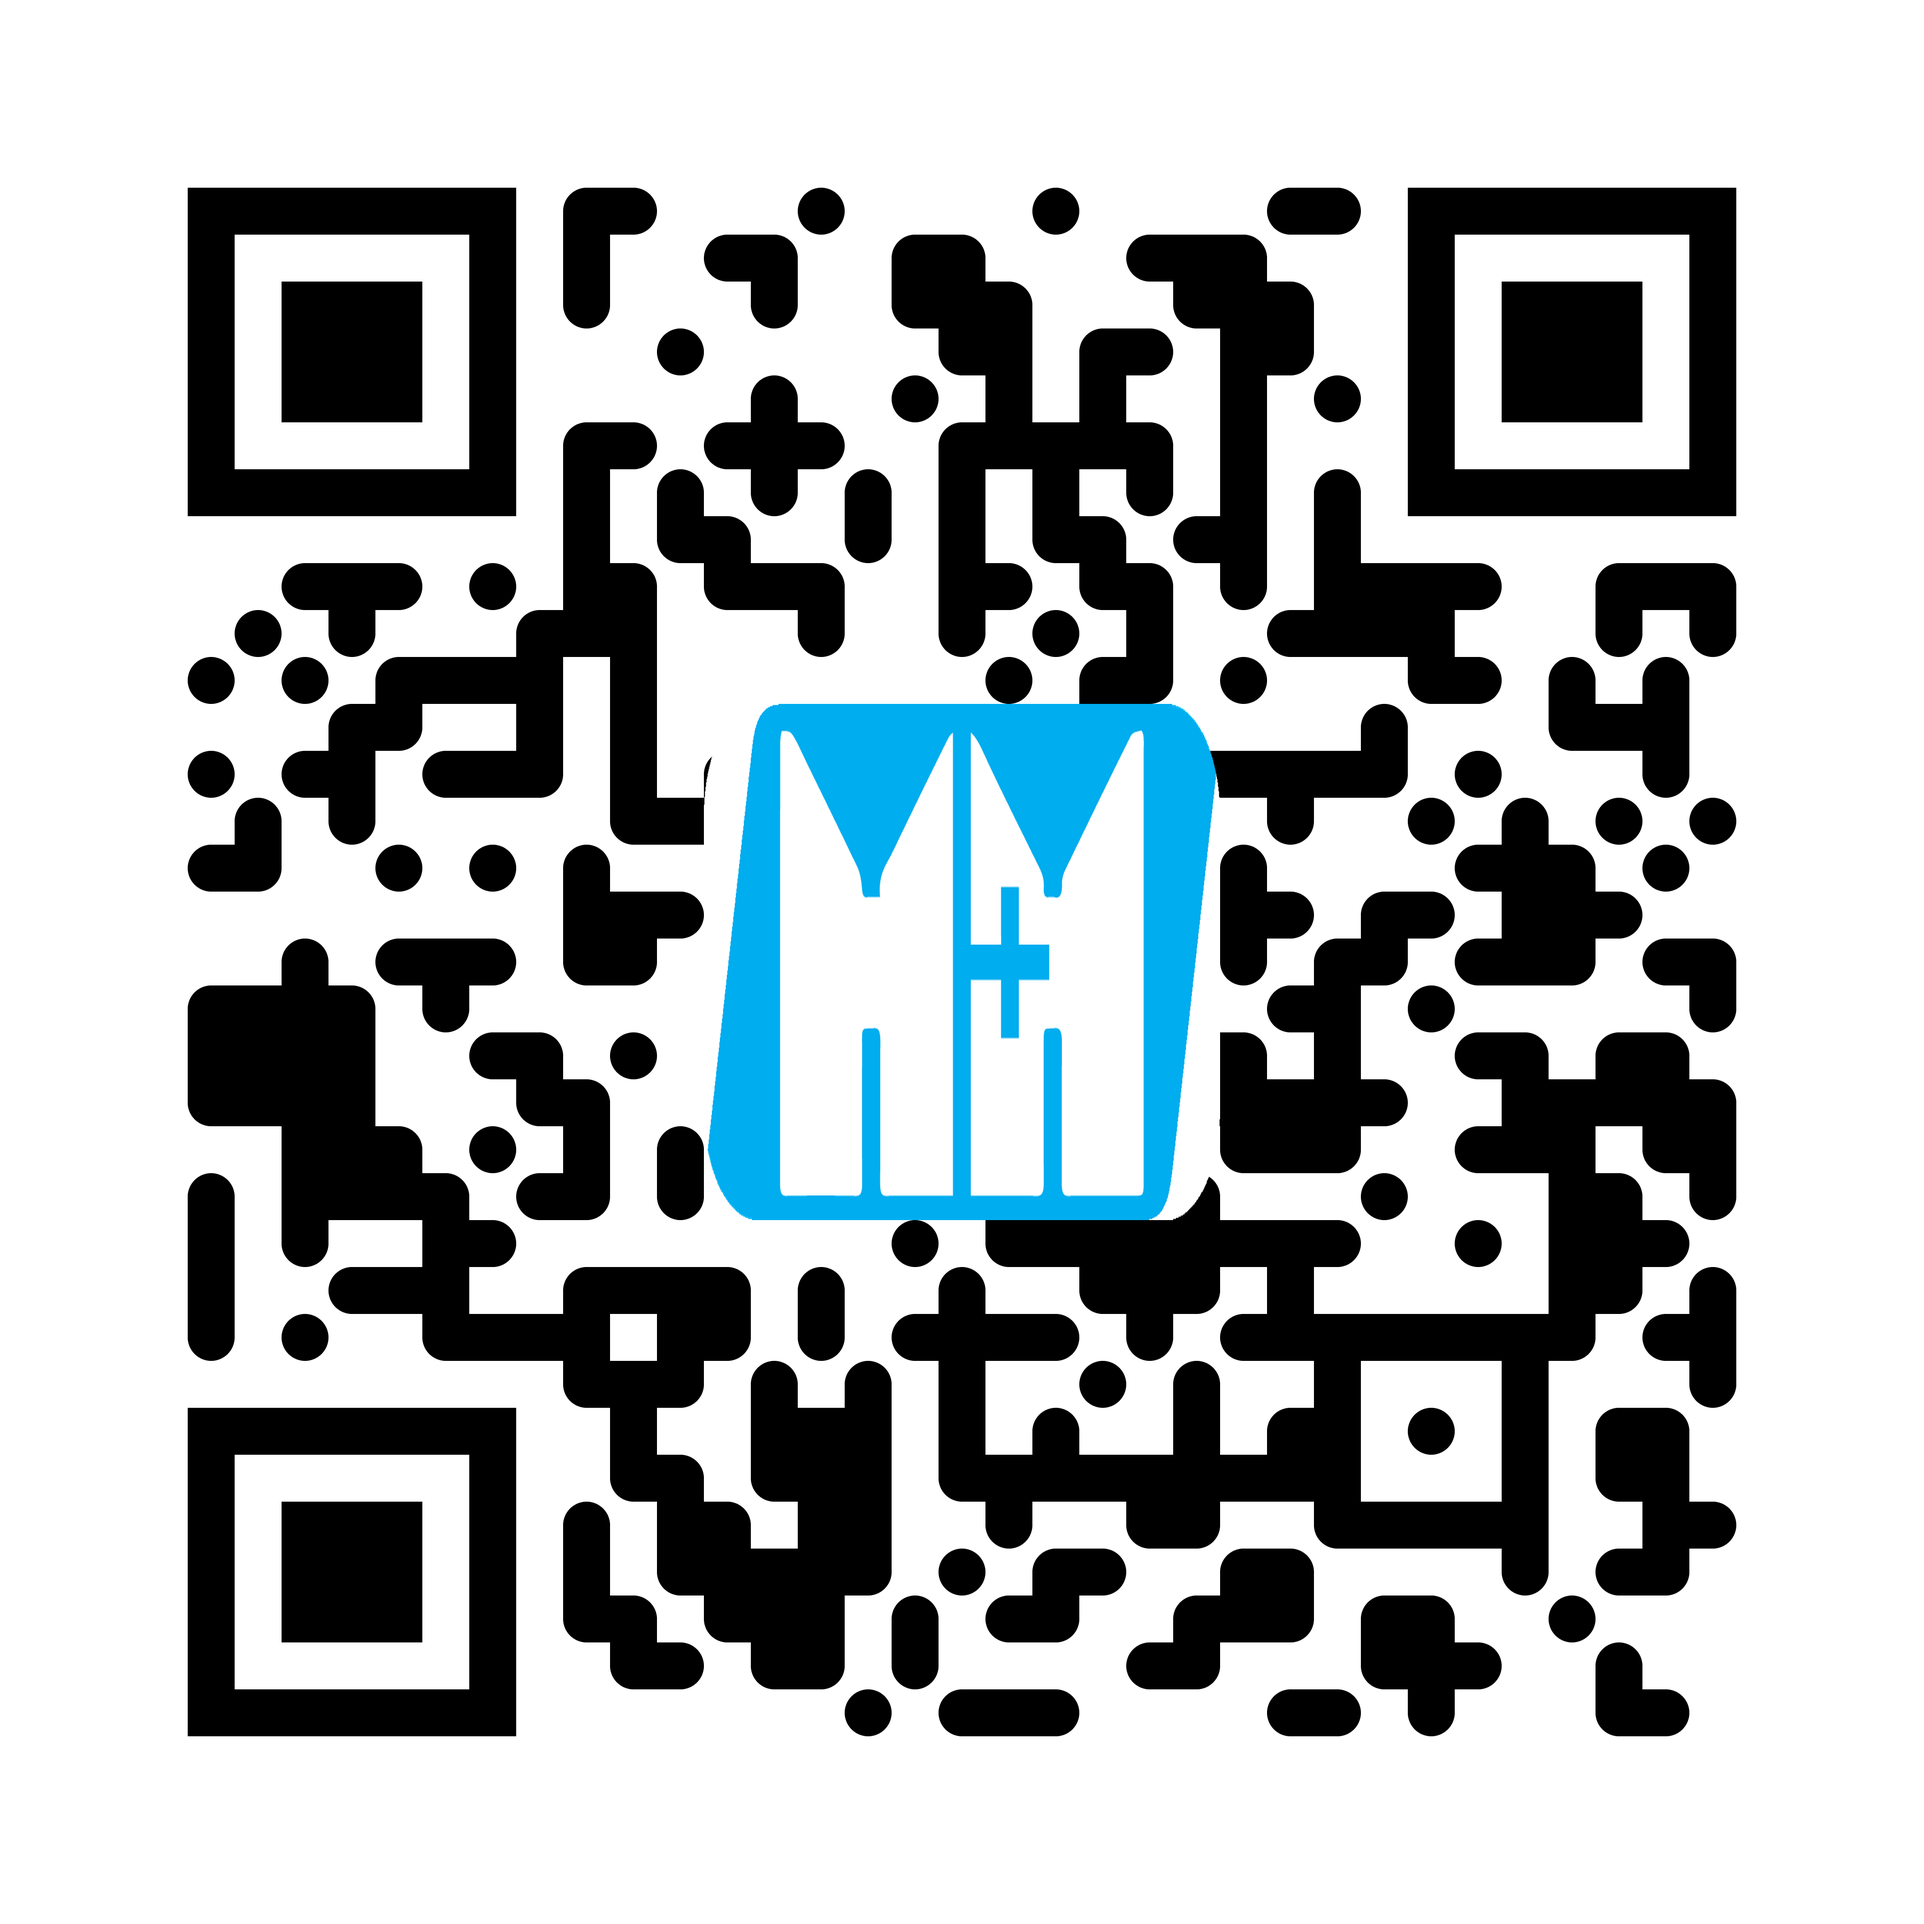
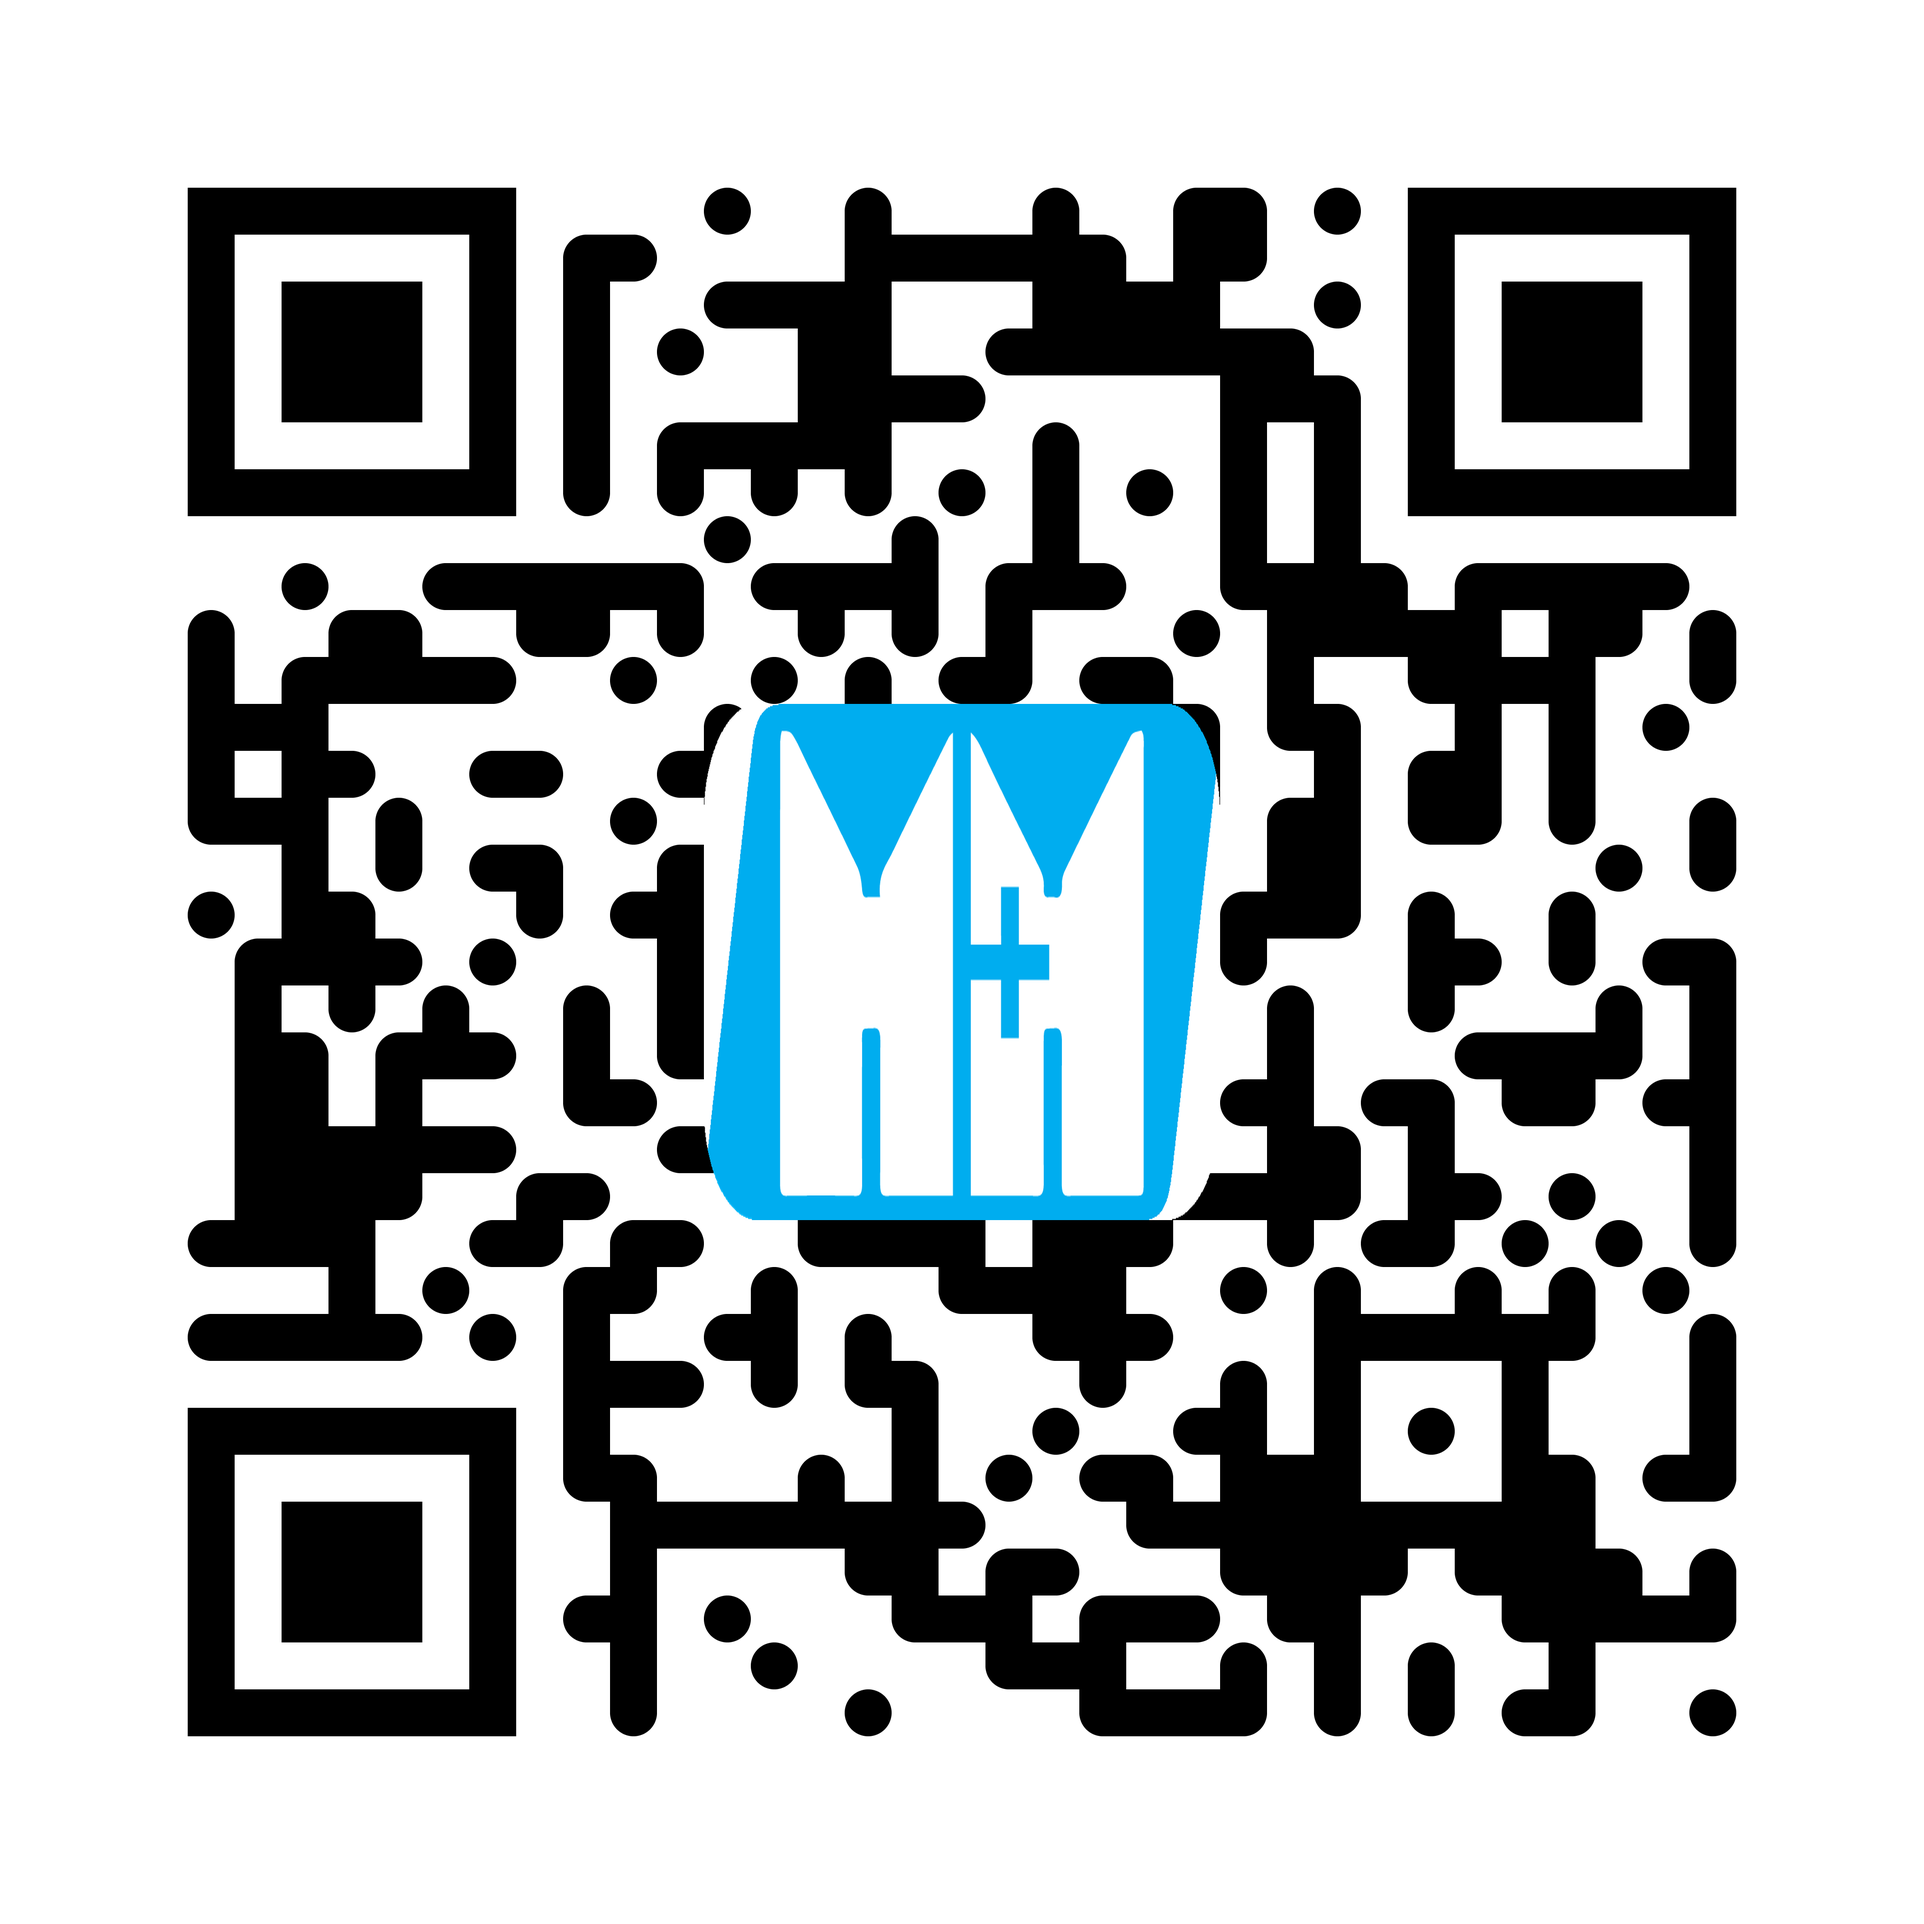
update qr code to correct one

Changed region(s): [[0.0937, 0.0937, 0.9054, 0.9054], [0.3122, 0.8741, 0.3434, 0.9054]]

diff --git a/notebooks/make-fancy-qr-code.py b/notebooks/make-fancy-qr-code.py
@@ -45,7 +45,7 @@ def create_rounded_image(image_path, output_path):
     im = add_corners(im, radius)
     im.save(output_path, transparent=True)
 
-def create_qr(center_logo_path, output_path, data='http://meetingmunch.com/docs'):
+def create_qr(center_logo_path, output_path, data='https://meetingmunch.com/welcome'):
 
     # create a temp path 
     temp_dir = tempfile.TemporaryDirectory()
